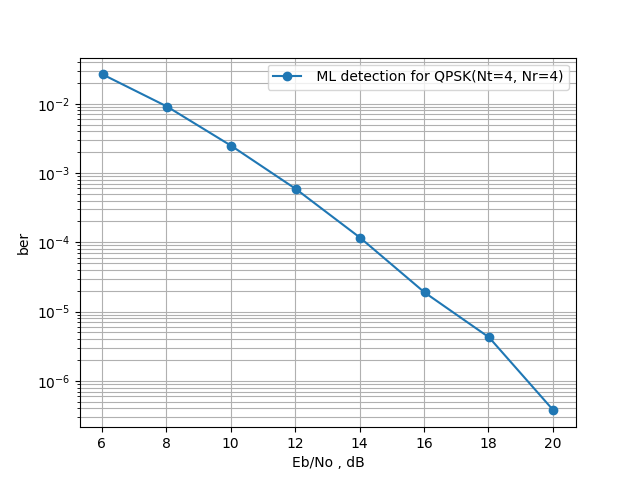
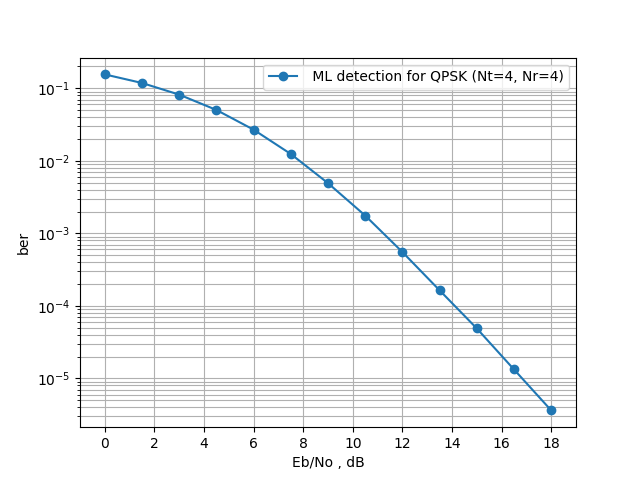
2x2 MIMO 模擬已完成

diff --git a/MIMO/detection/sphere decoding/plot BER.py b/MIMO/detection/sphere decoding/plot BER.py
@@ -27,22 +27,14 @@ elif Nr == 4:
         snr = [0.0, 2.3, 4.6, 6.8999999999999995, 9.2, 11.5, 13.799999999999999, 16.099999999999998, 18.4, 20.7, 23.0, 25.299999999999997, 27.599999999999998]
 
 
-ber1 = [0.22460039166666668 ,0.17382538333333333 ,0.12232576666666667 ,0.07432002916666666 ,0.037424175 ,0.015627345833333334 ,0.005613691666666667 ,0.0017871125 ,0.0005245375 ,0.00014124583333333332 ,3.695e-05 ,1.0029166666666667e-05 ,2.7958333333333334e-06   ]
-plt.semilogy(snr,ber1,marker = 'o',label='branch=[2,3,8,8]'.format(constellaion_name))
-#ber1 = [0.22463491666666666 ,0.1737168 ,0.12234528333333333 ,0.07425305 ,0.03743045 ,0.015628033333333333 ,0.005613716666666667 ,0.0018000416666666666 ,0.0005342166666666667 ,0.0001495 ,4.270833333333333e-05 ,1.2033333333333334e-05 ,3.5666666666666667e-06 ]
-#plt.semilogy(snr,ber1,marker = 'o',label='branch=[2,4,6,8]'.format(constellaion_name))
-#ber1 = [0.22477961666666665 ,0.17384954166666666 ,0.12251763333333333 ,0.07443115 ,0.037497325 ,0.015708708333333335 ,0.005640283333333333 ,0.001820975 ,0.0005373916666666667 ,0.00015094166666666667 ,4.046666666666667e-05 ,1.1741666666666666e-05 ,3.0583333333333334e-06  ]
-#plt.semilogy(snr,ber1,marker = 'o',label='branch=[2,2,8,8]'.format(constellaion_name))
-#ber1 = [0.22452531666666667 ,0.17379454166666666 ,0.12231465833333334 ,0.07427365 ,0.037393775 ,0.015624641666666666 ,0.005628925 ,0.0017849 ,0.0005186083333333333 ,0.00013924166666666666 ,3.735833333333333e-05 ,9.258333333333332e-06 ,2.1166666666666666e-06  ]
-#plt.semilogy(snr,ber1,marker = 'o',label='branch=[2,4,8,8]'.format(constellaion_name))
-#ber1 = [0.22691825, 0.17538941666666666, 0.12387025 ,0.07589525, 0.038705916666666666, 0.016584, 0.006136, 0.0020709166666666667, 0.0006873333333333333 ,0.000242 ,8.941666666666667e-05 ,3.483333333333333e-05 ,1.4416666666666667e-05  ]
-#plt.semilogy(snr,ber1,marker = 'o',label='SD-BF-soft(5)'.format(constellaion_name))
-#ber1 = [0.22486266666666666, 0.17367875, 0.122514 ,0.0742325, 0.037656166666666664, 0.01567525, 0.0057, 0.0018841666666666666, 0.0005720833333333333, 0.00019675 ,6.2e-05 ,2.225e-05, 7.525e-06 ]
-#plt.semilogy(snr,ber1,marker = 'o',label='SD-BF-soft(6)'.format(constellaion_name))
-#ber1 = [0.22669208333333332, 0.17488983333333333, 0.123328, 0.07567808333333334, 0.03848583333333333, 0.016413416666666666, 0.005931583333333333 ,0.0019581666666666666 ,0.0005970833333333334 ,0.0001665 ,5.2333333333333336e-05 ,1.5916666666666666e-05, 5.0833333333333335e-06  ]
-#plt.semilogy(snr,ber1,marker = 'o',label='SD-BF-soft(7)'.format(constellaion_name))
-#ber1 = [0.22455975, 0.17362033333333332 ,0.12234025 ,0.07428183333333334, 0.037463416666666666, 0.015653416666666666, 0.005564916666666667, 0.0017913333333333334 ,0.0005375 ,0.000138, 3.9916666666666663e-05, 9.5e-06, 2.0833333333333334e-06  ]
-#plt.semilogy(snr,ber1,marker = 'o',label='SD-BF-soft(8)'.format(constellaion_name))
+ber1 = [0.22751633333333332 ,0.17589108333333334 ,0.12378241666666667 ,0.075593 ,0.03893641666666667 ,0.017184333333333333 ,0.006974 ,0.0027695833333333335 ,0.0011918333333333334 ,0.0005335833333333333 ,0.00024675 ,0.00011808333333333333 ,5.383333333333333e-05  ]
+plt.semilogy(snr,ber1,marker = 'o',label='branch=[2,4,4,8]'.format(constellaion_name))
+ber1 = [0.22704633333333332 ,0.1756535 ,0.12408591666666667 ,0.07573733333333334 ,0.038765666666666664 ,0.017073416666666667 ,0.00697075 ,0.0027564166666666666 ,0.0011805 ,0.0005501666666666667 ,0.00024525 ,0.00012225 ,5.6416666666666665e-05  ]
+plt.semilogy(snr,ber1,marker = 'o',label='branch=[2,4,6,8]'.format(constellaion_name))
+ber1 = [0.22874758333333334 ,0.17685175 ,0.12485525 ,0.07662858333333333 ,0.039952416666666664 ,0.018098916666666666 ,0.007808416666666667 ,0.003387 ,0.0015129166666666667 ,0.0007395833333333333 ,0.0003524166666666667 ,0.00018266666666666667 ,9.258333333333334e-05 ]
+plt.semilogy(snr,ber1,marker = 'o',label='branch=[2,2,8,8]'.format(constellaion_name))
+ber1 = [0.22716691666666666 ,0.17572925833333333 ,0.1239702 ,0.07576899166666666 ,0.03891104166666667 ,0.017123908333333333 ,0.006928633333333333 ,0.002824333333333333 ,0.0011923583333333333 ,0.0005429666666666666 ,0.0002606416666666667 ,0.00012819166666666666 ,6.3225e-05  ]
+plt.semilogy(snr,ber1,marker = 'o',label='branch=[2,4,8,8]'.format(constellaion_name))
 
 
 
@@ -53,6 +45,11 @@ if Nr == 2:
         ber = [0.1686901625, 0.1186008875, 0.0733288, 0.039247575 ,0.018208725, 0.0074320375, 0.0027901125, 0.0009668875, 0.0003223875 ,0.0001040875, 3.46e-05, 1.03375e-05 ,3.15e-06  ]
     if constellaion_name == '64QAM':
         ber = [0.22451341666666666, 0.17355816666666668 ,0.12235333333333333 ,0.07435666666666667, 0.03724375 ,0.015678166666666667, 0.005537916666666667, 0.00178375 ,0.0005044166666666667 ,0.00014083333333333333 ,3.316666666666667e-05 ,8e-06 ,2.1666666666666665e-06 ]
+elif Nr == 4:
+    if constellaion_name == 'QPSK':
+        ber = [0.15562665, 0.118460475, 0.0818836, 0.050323425, 0.02690375, 0.0124315, 0.004925775, 0.00175935, 0.0005531, 0.000163975, 4.89e-05, 1.33e-05, 3.625e-06]
+    if constellaion_name == '16QAM':
+        ber = [0.243578375, 0.20886575 ,0.1720089375, 0.1315284375, 0.0884094375, 0.0490300625 ,0.021343375, 0.007176 ,0.001872875 ,0.0004275, 8.33125e-05 ,1.625e-05, 3.1375e-06 ]
 plt.semilogy(snr,ber,marker = 'o',label='ML detection')
 ticks = [0] * 20
 for i in range(20):

diff --git a/MIMO/detection/sphere decoding/plot Visit node.py b/MIMO/detection/sphere decoding/plot Visit node.py
@@ -26,13 +26,13 @@ elif Nr == 4:
     if constellaion_name == '64QAM':
         snr = [0.0, 2.3, 4.6, 6.8999999999999995, 9.2, 11.5, 13.799999999999999, 16.099999999999998, 18.4, 20.7, 23.0, 25.299999999999997, 27.599999999999998]
 
-visit1 = [32.2726352 ,28.8480256 ,26.4592748 ,24.3636348 ,22.3402476 ,20.6672356 ,19.5080268 ,18.8011916 ,18.4145904 ,18.2129004 ,18.1073984 ,18.0551612 ,18.0271048 ]
+visit1 = [35.703904 ,31.209364 ,28.079218 ,25.450176 ,23.059714 ,21.152898 ,19.825956 ,19.012386 ,18.554272 ,18.29961 ,18.157126 ,18.083582 ,18.04404 ]
 plt.plot(snr,visit1,marker = 'o',label='branch=[2,4,4,8]'.format(constellaion_name))
-visit1 = [36.8855438 ,32.7874186 ,30.0045016 ,27.5466416 ,25.184768 ,23.188424 ,21.8146656 ,20.9719952 ,20.510232 ,20.256973 ,20.1307022 ,20.0648708 ,20.031732   ]
+visit1 = [41.756642 ,36.063808 ,32.257762 ,29.013504 ,26.112926 ,23.85909 ,22.262922 ,21.270528 ,20.71192 ,20.396702 ,20.208628 ,20.111984 ,20.060468]
 plt.plot(snr,visit1,marker = 'o',label='branch=[2,4,6,8]'.format(constellaion_name))
-visit1 = [34.9454308 ,31.5816074 ,29.2113256 ,27.0095318 ,24.8199536 ,22.9793422 ,21.6896608 ,20.903757 ,20.4692334 ,20.2380074 ,20.1189294 ,20.0588544 ,20.0295078  ]
+visit1 = [39.754812 ,34.93079 ,31.549852 ,28.577514 ,25.940934 ,23.73289 ,22.231012 ,21.289086 ,20.709672 ,20.396546 ,20.22015 ,20.122902 ,20.06357 ]
 plt.plot(snr,visit1,marker = 'o',label='branch=[2,2,8,8]'.format(constellaion_name))
-visit1 = [41.1228444 ,36.5578374 ,33.4651152 ,30.6679586 ,27.9594814 ,25.6925078 ,24.1043726 ,23.1340458 ,22.58703 ,22.3007818 ,22.1499026 ,22.0745654 ,22.0378546  ]
+visit1 = [47.0904302 ,40.5978828 ,36.1607506 ,32.4607244 ,29.1725458 ,26.4858748 ,24.6330446 ,23.5060276 ,22.8395866 ,22.4634268 ,22.254628 ,22.1391326 ,22.073021  ]
 plt.plot(snr,visit1,marker = 'o',label='branch=[2,4,8,8]'.format(constellaion_name))
 #visit1 = [9.934516, 9.444778 ,9.019476, 8.690558 ,8.44767, 8.28379, 8.180962, 8.111144, 8.069182, 8.043392, 8.026854, 8.016508 ,8.010564 ]
 #plt.plot(snr,visit1,marker = 'o',label='branch=[2,2,2,2]'.format(constellaion_name))

diff --git a/MIMO/detection/sphere decoding/plot Addition.py b/MIMO/detection/sphere decoding/plot Addition.py
@@ -26,13 +26,13 @@ elif Nr == 4:
     if constellaion_name == '64QAM':
         snr = [0.0, 2.3, 4.6, 6.8999999999999995, 9.2, 11.5, 13.799999999999999, 16.099999999999998, 18.4, 20.7, 23.0, 25.299999999999997, 27.599999999999998]
 
-visit1 = [188.7827944 ,161.9755486 ,143.8885136 ,128.5447496 ,114.0929524 ,102.3381392 ,94.3338474 ,89.5363114 ,86.9524722 ,85.6247982 ,84.9355234 ,84.6004754 ,84.4267362]
+visit1 = [182.136314 ,152.83858 ,132.816355 ,116.479428 ,101.973864 ,90.631543 ,82.806186 ,78.063112 ,75.423375 ,73.956211 ,73.147561 ,72.729178 ,72.502718  ]
 plt.plot(snr,visit1,marker = 'o',label='branch=[2,4,4,8]'.format(constellaion_name))
-visit1 = [211.286594 ,180.3017694 ,160.0839473 ,142.9431491 ,126.918692 ,113.6304559 ,104.6424187 ,99.218712 ,96.2861105 ,94.700502 ,93.9215143 ,93.5165227 ,93.312985   ]
+visit1 = [213.130932 ,176.66429 ,152.839986 ,133.159531 ,116.019815 ,102.997098 ,93.872994 ,88.248646 ,85.116293 ,83.362629 ,82.297902 ,81.755311 ,81.461553 ]
 plt.plot(snr,visit1,marker = 'o',label='branch=[2,4,6,8]'.format(constellaion_name))
-visit1 = [193.2291009 ,167.865957 ,150.7537787 ,135.6346588 ,121.081453 ,109.1276843 ,100.9189787 ,95.997601 ,93.3192942 ,91.9136113 ,91.1976439 ,90.842757 ,90.6685741 ]
+visit1 = [194.428448 ,164.141192 ,143.493464 ,126.027753 ,111.05437 ,98.772348 ,90.55133 ,85.459032 ,82.333438 ,80.647393 ,79.689148 ,79.167432 ,78.848463  ]
 plt.plot(snr,visit1,marker = 'o',label='branch=[2,2,8,8]'.format(constellaion_name))
-visit1 = [232.1644557 ,198.5078281 ,176.7066379 ,157.8563433 ,140.1290059 ,125.5775407 ,115.5488505 ,109.5092851 ,106.1489223 ,104.4185532 ,103.5107642 ,103.0599355 ,102.8428917 ]
+visit1 = [241.2229675 ,199.8850294 ,172.3204625 ,150.133225 ,131.0228265 ,115.697085 ,105.2762419 ,98.9979355 ,95.3009323 ,93.2115533 ,92.0516152 ,91.4066298 ,91.039013 ]
 plt.plot(snr,visit1,marker = 'o',label='branch=[2,4,8,8]'.format(constellaion_name))
 
 

diff --git a/MIMO/detection/sphere decoding/plot Multiplication.py b/MIMO/detection/sphere decoding/plot Multiplication.py
@@ -26,13 +26,13 @@ elif Nr == 4:
     if constellaion_name == '64QAM':
         snr = [0.0, 2.3, 4.6, 6.8999999999999995, 9.2, 11.5, 13.799999999999999, 16.099999999999998, 18.4, 20.7, 23.0, 25.299999999999997, 27.599999999999998]
 
-visit1 = [39.572846 ,35.0575532 ,31.9303264 ,29.2026168 ,26.5797378 ,24.4175056 ,22.924964 ,22.0189004 ,21.5253978 ,21.2690172 ,21.135367 ,21.0693926 ,21.0340558  ]
+visit1 = [35.703904 ,31.209364 ,28.079218 ,25.450176 ,23.059714 ,21.152898 ,19.825956 ,19.012386 ,18.554272 ,18.29961 ,18.157126 ,18.083582 ,18.04404 ]
 plt.plot(snr,visit1,marker = 'o',label='branch=[2,4,4,8]'.format(constellaion_name))
-visit1 = [44.369751 ,39.0772125 ,35.5221667 ,32.4140092 ,29.4461035 ,26.9496014 ,25.2393336 ,24.1949525 ,23.625213 ,23.3138986 ,23.1592697 ,23.0788964 ,23.0385183  ]
+visit1 = [41.756642 ,36.063808 ,32.257762 ,29.013504 ,26.112926 ,23.85909 ,22.262922 ,21.270528 ,20.71192 ,20.396702 ,20.208628 ,20.111984 ,20.060468]
 plt.plot(snr,visit1,marker = 'o',label='branch=[2,4,6,8]'.format(constellaion_name))
-visit1 = [42.3525917 ,37.8518954 ,34.7309921 ,31.8829433 ,29.0824622 ,26.7462023 ,25.1176295 ,24.1292615 ,23.5847477 ,23.2959524 ,23.1473783 ,23.0728886 ,23.0364446   ]
+visit1 = [39.754812 ,34.93079 ,31.549852 ,28.577514 ,25.940934 ,23.73289 ,22.231012 ,21.289086 ,20.709672 ,20.396546 ,20.22015 ,20.122902 ,20.06357 ]
 plt.plot(snr,visit1,marker = 'o',label='branch=[2,2,8,8]'.format(constellaion_name))
-visit1 = [48.6734635 ,42.8773675 ,39.0044996 ,35.5463082 ,32.2252079 ,29.4603535 ,27.5324358 ,26.3600119 ,25.7015851 ,25.358478 ,25.1781977 ,25.0884467 ,25.0448615   ]
+visit1 = [47.0904302 ,40.5978828 ,36.1607506 ,32.4607244 ,29.1725458 ,26.4858748 ,24.6330446 ,23.5060276 ,22.8395866 ,22.4634268 ,22.254628 ,22.1391326 ,22.073021  ]
 plt.plot(snr,visit1,marker = 'o',label='branch=[2,4,8,8]'.format(constellaion_name))
 
 
